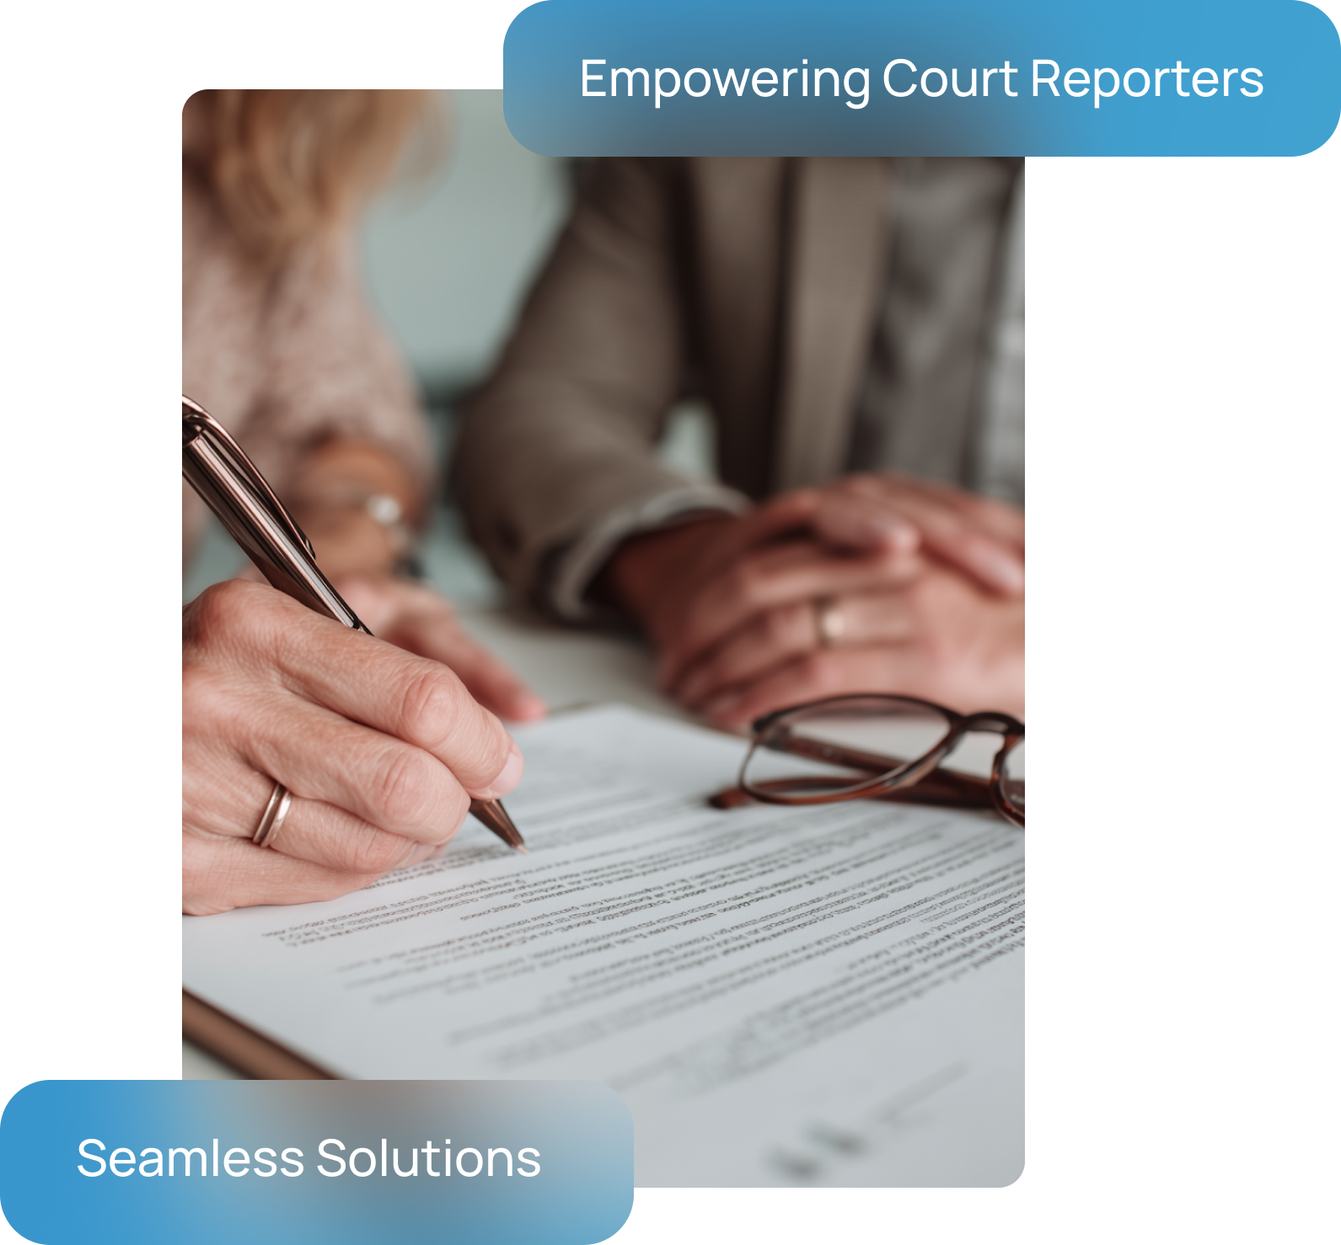
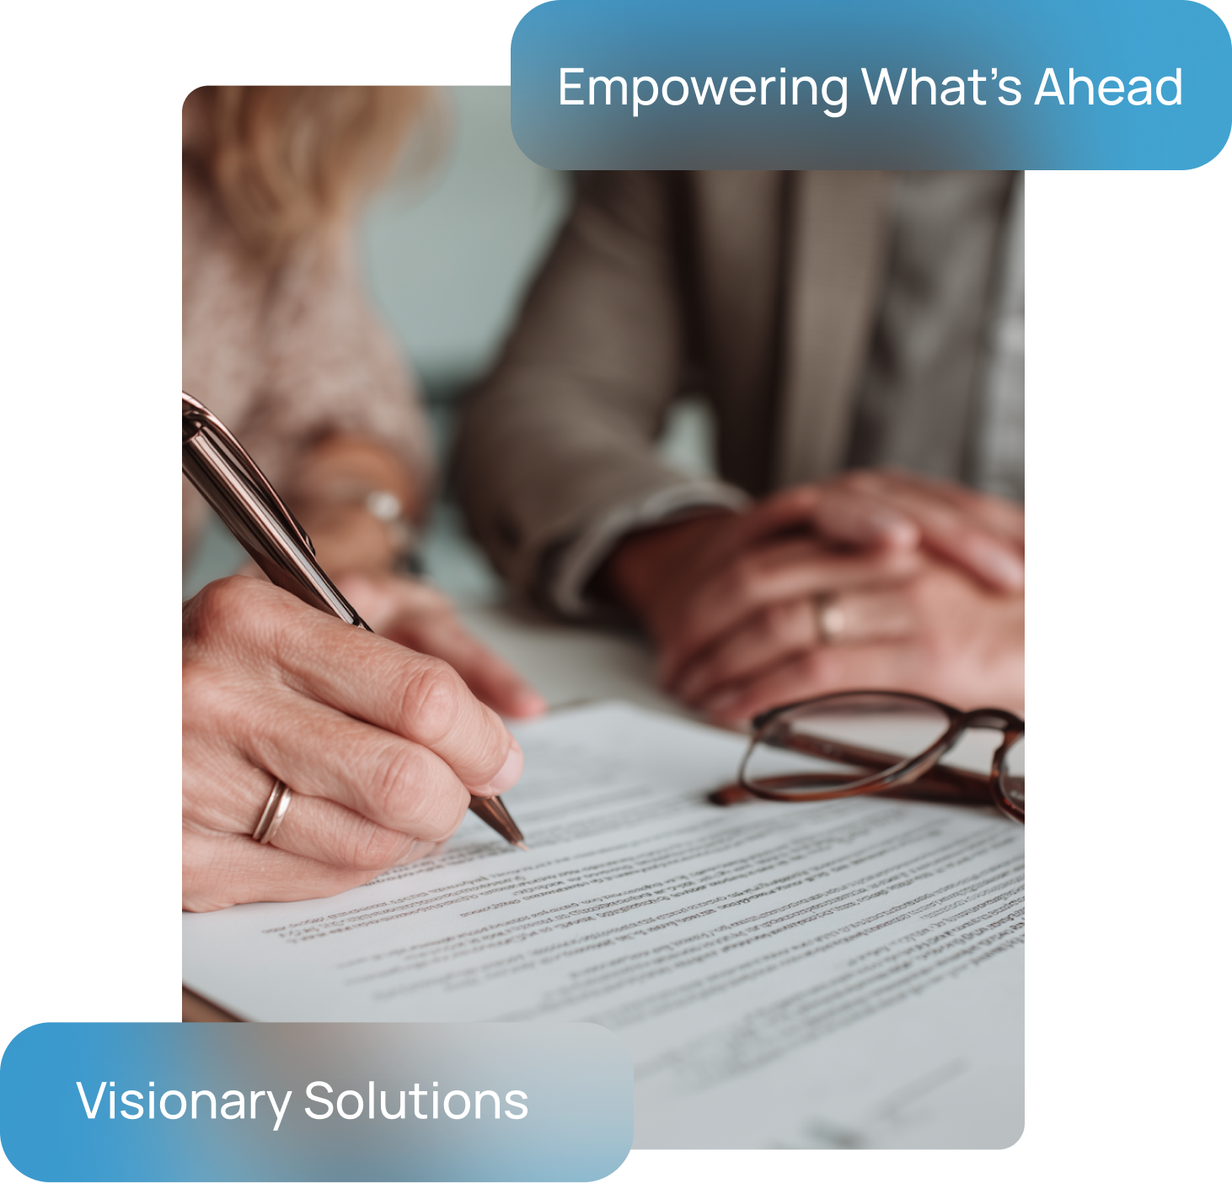
new doc changes

diff --git a/src/pages/ServiceDetails.jsx b/src/pages/ServiceDetails.jsx
@@ -16,7 +16,7 @@ function ServiceDetails() {
         name: "TVG  Management",
         title: "Agency Management Services for Court Reporting Firms",
         pera: [
-          "Running a court reporting firm involves more than just capturing the record.  It demands consistent administrative precision, strong client communication and an eye on the bigger business picture. That’s where we come in. TVG Management acts as your operational backbone, helping you manage the day-to-day so you can focus on what matters most that’s your clients and your growth. Whether you're scaling up, facing staffing challenges or need support during high-demand periods, our experienced team steps in.  We bring reliability, consistency and confidence to your agency.",
+          "Running a court reporting firm involves more than just capturing the record.  It demands consistent administrative precision, strong client communication, and an eye on the bigger business picture. That’s where we come in. TVG Management acts as your operational backbone, helping you manage the day-to-day so you can focus on what matters most: your clients and your growth. Whether you're scaling up, facing staffing challenges, or need support during high-demand periods, our experienced team steps in.  We bring reliability, consistency, and confidence to your agency.",
         ],
         link: "link",
         images: [
@@ -29,8 +29,8 @@ function ServiceDetails() {
       Overview: {
         title: "Proven Experience Delivering the Efficiency You Need",
         pera: [
-          "Managing a court reporting agency means balancing client demands, coordinating with reporters, billing cycles and deadlines all while maintaining your firm’s reputation. That’s where TVG Management comes in. We help you as your supportive operational partner, providing customized administrative support that is specifically designed for court reporting firms.",
-          "If you’re looking to expand your business, facing staffing shortages, or simply wanting to free up time for strategic growth, our experienced team steps in smoothly for your needs. We take care of all the behind the scenes mess so you can stay focused on delivering exceptional service to your clients.",
+          "Managing a court reporting agency means balancing client expectations, reporter coordination, billing cycles, and deadlines, all while keeping your firm’s reputation. That’s where TVG Management comes in. We serve as your dependable operational partner, delivering customized administrative support designed specifically for court reporting firms.",
+          "Whether you're scaling your business, dealing with staff shortages, or simply looking to free up time for strategic growth, our experienced team is here to help. We take care of the behind-the-scenes so you can stay focused on delivering exceptional service to your clients.",
         ],
         img: "/services/management-over.png",
       },
@@ -71,21 +71,21 @@ function ServiceDetails() {
           icon: "/wwo-icon/m1.png",
           title: "End to End Scheduling & Communication Management",
           description:
-            "We handle scheduling, resource calendar coordination, email monitoring and phone answering, ensuring your agency runs smoothly and stays responsive.  We are more than an answering service. We have the skills needed to answer questions the first time they are asked.",
+            "We handle scheduling, resource calendar coordination, email monitoring, and phone answering, ensuring your agency runs smoothly and stays responsive.  We are more than an answering service. We have the skills needed to answer questions the first time they are asked. ",
           classBorder: "border-b border-white",
         },
         {
           icon: "/wwo-icon/m2.png",
           title: "Meticulous Transcript & Exhibit Processing",
           description:
-            "From accurate transcript formatting to exhibit marking, printing, binding and final delivery, we manage it all with precision and speed.",
+            "From accurate transcript formatting to exhibit marking, printing, binding, and final delivery, we manage it all with precision and speed.",
           classBorder: "border-b border-white",
         },
         {
           icon: "/wwo-icon/m3.png",
           title: "Streamlined Invoicing & Collections",
           description:
-            "Get paid on time with professional invoice generation, client billing follow-ups and efficient collections support.",
+            "Get paid on time with professional invoice generation, client billing follow-ups, and efficient collections support.",
           classBorder: "border-b border-white",
         },
         {

diff --git a/src/sections/about/Story.jsx b/src/sections/about/Story.jsx
@@ -6,19 +6,19 @@ const Story = () => {
     {
       year: "2017",
       title: "Our Legacy",
-      para: "Founded in 2001 with a clear mission to deliver exceptional court reporting and legal support services rooted in professionalism, reliability and personal attention, The Varallo Group builds on a family legacy dating back to 1937. For decades, the Varallo name has been synonymous with excellence in the field.",
+      para: "Founded in 2001 with a clear mission to deliver exceptional court reporting and legal support services rooted in professionalism, reliability and personal attention, The Varallo Group builds on a family legacy dating back to 1937. For nearly 100 years, the Varallo name has been synonymous with excellence in the field.",
       img: "/our-legacy.jpg",
     },
     {
       year: "2018",
       title: "Our Commitment",
-      para: "From the start, The Varallo Group set out to be a different kind of court reporting firm. We’ve assembled a team of experts dedicated to upholding the highest standards of accuracy, responsiveness and service. Whether handling routine depositions, high-profile cases, administration or communications, we bring the same precision, discretion and care to every client. Our founder, Nancy Varallo, a lifelong court reporter and respected industry leader, shaped the company’s client-first culture. Under her guidance, The Varallo Group has grown into a trusted partner for court reporting firms, government agencies and organizations nationwide.",
+      para: "From the start, The Varallo Group set out to be a different kind of court reporting firm. We’ve assembled a team of experts dedicated to upholding the highest standards of accuracy, responsiveness, and service. Whether handling routine depositions, high- profile cases, administration or communications, we bring the same precision, discretion, and care to every client. Our founder, Nancy Varallo, a lifelong court reporter and respected industry leader, shaped the company’s client-first culture. Under her guidance, The Varallo Group has grown into a trusted partner for court reporting firms, government agencies, and organizations nationwide.",
       img: "/our-commitment.jpg",
     },
     {
       year: "2020",
       title: "Our Future",
-      para: "What truly sets us apart is the people behind the name. Our team is loyal, experienced and empowered to deliver results. We continuously invest in technology, talent and training to stay ahead in a rapidly evolving legal landscape because our clients rely on us to get it right, every time. At The Varallo Group, we combine a proud legacy of excellence with forward-thinking innovation to meet tomorrow’s challenges.",
+      para: "What truly sets us apart is the people behind the name. Our team is loyal, experienced, and empowered to deliver results. We continuously invest in technology, talent, and training to stay ahead in a rapidly evolving legal landscape — because our clients rely on us to get it right, every time. At The Varallo Group, we combine a proud legacy of excellence with forward-thinking innovation to meet tomorrow’s challenges.",
       img: "/our-future.jpg",
     },
   ];
@@ -54,7 +54,7 @@ const Story = () => {
           viewport={{ once: true, amount: 0.3 }} // triggers when 30% visible
           variants={fadeInUp}
         >
-          <div className="max-w-[1600px] m-auto px-4 py-[50px]">
+          <div className="max-w-[1600px] m-auto px-4 pt-[50px] md:py-[50px]">
             <div
               className={`flex flex-col md:flex-row gap-5 md:gap-10 items-center ${
                 index % 2 === 1 ? "md:flex-row-reverse" : ""

diff --git a/src/sections/service/ServicesGrid.jsx b/src/sections/service/ServicesGrid.jsx
@@ -39,13 +39,13 @@ const services = [
     link: "/services/tvg-verify",
     img: "./verify.jpg",
   },
-  {
-    title: "TVG Creative",
-    content:
-      "Whether you’re launching a new venture or refreshing your digital presence, how you show up matters. In today’s fast-moving world, first impressions aren’t just visual, they're strategic. That’s where TVG Creative steps in. We provide full-spectrum digital marketing, branding and design services customized for the legal and B2B industries. From marketing materials to start-up identity kits, we help you cut through the noise, attract the right audience and communicate your value with clarity and style.",
-    link: "/services/tvg-creative",
-    img: "./creative.jpg",
-  },
+  // {
+  //   title: "TVG Creative",
+  //   content:
+  //     "Whether you’re launching a new venture or refreshing your digital presence, how you show up matters. In today’s fast-moving world, first impressions aren’t just visual, they're strategic. That’s where TVG Creative steps in. We provide full-spectrum digital marketing, branding and design services customized for the legal and B2B industries. From marketing materials to start-up identity kits, we help you cut through the noise, attract the right audience and communicate your value with clarity and style.",
+  //   link: "/services/tvg-creative",
+  //   img: "./creative.jpg",
+  // },
   {
     title: "TVG Reporting",
     content:
@@ -53,13 +53,13 @@ const services = [
     link: "/services/tvg-reporting",
     img: "./reporting.jpg",
   },
-  {
-    title: "TVG Command",
-    content:
-      "As the legal industry evolves, so should your technology. From court reporting to case production, efficiency and accuracy are everything. That’s why more reporting firms are turning to AI-powered platforms that don’t just keep up, they lead. TVG Command helps you modernize your transcription workflow with cutting-edge platform solutions. As a U.S. sales partner for Claudio AI and other legal-first platforms, we connect you with tools designed to scale your reporting business, reduce manual work  without sacrificing accuracy.",
-    link: "/services/tvg-command",
-    img: "./command.jpg",
-  },
+  // {
+  //   title: "TVG Command",
+  //   content:
+  //     "As the legal industry evolves, so should your technology. From court reporting to case production, efficiency and accuracy are everything. That’s why more reporting firms are turning to AI-powered platforms that don’t just keep up, they lead. TVG Command helps you modernize your transcription workflow with cutting-edge platform solutions. As a U.S. sales partner for Claudio AI and other legal-first platforms, we connect you with tools designed to scale your reporting business, reduce manual work  without sacrificing accuracy.",
+  //   link: "/services/tvg-command",
+  //   img: "./command.jpg",
+  // },
 ];
 
 // Motion Variants

diff --git a/src/sections/about/OurFounder.jsx b/src/sections/about/OurFounder.jsx
@@ -84,22 +84,21 @@ function OurFounder() {
 
             {/* Description */}
             <p className="text-xl leading-relaxed font-manrope">
-              Nancy Varallo launched her court reporting career in 1979 and
-              founded The Varallo Group in 2001, combining decades of expertise
-              with a bold vision for better, smarter legal support. With a
-              family name rooted in court reporting since 1937, Nancy carries
-              that legacy forward through her unwavering commitment to quality,
-              service and innovation.
+              Nancy Varallo launched her court reporting career in 1979 and founded The
+Varallo Group in 2001, combining decades of expertise with a bold vision for better,
+
+smarter legal support. With a family name rooted in court reporting since 1937, Nancy
+carries that legacy forward through her unwavering commitment to quality, service, and
+innovation.
             </p>
             <p className="text-xl leading-relaxed font-manrope">
-              From serving as President of the National Court Reporters
-              Association to co-founding the Project to Advance Stenographic
-              Reporting (Project Steno), Nancy has been a powerful advocate for
-              the profession, mentoring students, creating industry programs and
-              even overseeing high-profile cases at Guantanamo Bay. Known
-              affectionately as the “Fearless Leader” by her team, she brings
-              heart, leadership and family-first values to every part of The
-              Varallo Group.
+             
+From serving as President of the National Court Reporters Association to co-founding
+the Project to Advance Stenographic Reporting (Project Steno), Nancy has been a
+powerful advocate for the profession, mentoring students, creating industry programs,
+and even overseeing high-profile cases at Guantanamo Bay. Known affectionately as
+the “Fearless Leader” by her team, she brings heart, leadership, and family-first values
+to every part of The Varallo Group.
             </p>
           </motion.div>
         </div>

diff --git a/src/sections/home/SmartSlider.jsx b/src/sections/home/SmartSlider.jsx
@@ -22,7 +22,7 @@ const smartData = [
   },
   {
     title: "TVG Stream",
-    desc: "Cutting edge legal video, trial presentation and event AV solutions.",
+    desc: "Cutting-Edge trial presentation, and event A/V solutions.",
     image: "smart-3.jpg",
     link: "/services/tvg-stream"
   },
@@ -32,24 +32,24 @@ const smartData = [
     image: "smart-4.jpg",
     link: "/services/tvg-books"
   },
-  {
-    title: "TVG Creative",
-    desc: "Marketing materials, branding and identity kits for legal and B2B sectors.",
-    image: "smart-5.jpg",
-    link: "/services/tvg-creative"
-  },
+  // {
+  //   title: "TVG Creative",
+  //   desc: "Marketing materials, branding and identity kits for legal and B2B sectors.",
+  //   image: "smart-5.jpg",
+  //   link: "/services/tvg-creative"
+  // },
   {
     title: "TVG Connect",
     desc: "Focused management services built for professional associations and organizations.",
     image: "smart-6.jpg",
     link: "/services/tvg-connect"
   },
-  {
-    title: "TVG Command",
-    desc: "Empowering you with sales support and practical training on leading legal tech platforms.",
-    image: "smart-7.jpg",
-    link: "/services/tvg-command"
-  },
+  // {
+  //   title: "TVG Command",
+  //   desc: "Empowering you with sales support and practical training on leading legal tech platforms.",
+  //   image: "smart-7.jpg",
+  //   link: "/services/tvg-command"
+  // },
   {
     title: "TVG Verify",
     desc: "Let us ensure your hiring is secure with reliable background screening and compliance checks, powered by SmartHire.",
@@ -93,7 +93,7 @@ export default function SmartSlider() {
     slidesToScroll: 1,
     centerMode: false,
     autoplay: true,
-    autoplaySpeed: 3000, // 3 seconds
+    autoplaySpeed: 5000, // 3 seconds
     nextArrow: <NextArrow />,
     prevArrow: <PrevArrow />,
     responsive: [

diff --git a/src/sections/home/AboutSection.jsx b/src/sections/home/AboutSection.jsx
@@ -30,7 +30,9 @@ const AboutSection = () => {
 
                 </h3>
                 <p className=" mt-2 font-manrope">
-                 With more than 50 years of court reporting expertise, The Varallo Group combines a rich legacy, unwavering precision and forward-thinking innovation to empower and support your firm every step of the way.
+                With more than 50 years of court reporting expertise, The Varallo Group
+combines a rich legacy, unwavering commitment, and forward-thinking innovation to
+empower and support your firm every step of the way.
 
                 </p>
               </div>
@@ -84,12 +86,12 @@ const AboutSection = () => {
                     { 
                       icon: '/ab-1.png', 
                       title: "Technology-Driven", 
-                      description: "We leverage advanced tools to streamline scheduling, delivery and communication so you can scale with confidence. " 
+                      description: "We leverage advanced tools to streamline scheduling, delivery, and communication so you can scale with confidence." 
                     },
                     { 
                       icon: '/ab-2.png', 
                       title: "Confidential & Reliable", 
-                      description: "We recognize the trust you’ve placed in us and we’re dedicated to protecting the confidentiality of your private company information. " 
+                      description: "We recognize the trust you’ve placed in us, and we’re dedicated to protecting the confidentiality of your private company information." 
                     },
                     { 
                       icon: '/ab-3.png', 

diff --git a/src/sections/home/WhyChoose.jsx b/src/sections/home/WhyChoose.jsx
@@ -25,7 +25,7 @@ const stats = [
   {
     title: "2.5M+",
     description:
-      "Million depositions handled",
+      "Depositions Handled",
   },
 ];
 
@@ -63,7 +63,8 @@ const HeroSection = () => {
             transition={{ duration: 0.8, delay: 0.2 }}
             viewport={{ once: true }}
           >
-          For court reporting firms that value reliability, accuracy and confidentiality, our team delivers more than just services; we deliver peace of mind.
+          For court reporting firms that value reliability, accuracy, and confidentiality, our
+team delivers more than just services; we deliver peace of mind.
 
           </motion.p>
         </motion.div>
@@ -97,7 +98,8 @@ const HeroSection = () => {
             >
               <div className="rounded-xl p-4 text-white text-sm font-medium bg-btn flex flex-col justify-between">
                 <p className="font-manrope text-xl leading-6 md:leading-8">
-                 Decades of expertise, led by Nancy Varallo, trusted by firms nationwide.
+                Decades of expertise, led by Nancy Varallo. Trusted by firms
+nationwide.
                 </p>
                 <Link to={"/services"} className="text-base mt-5 font-manrope leading-8">
                   Learn More
@@ -115,7 +117,7 @@ const HeroSection = () => {
 
             {/* Vertical Slider */}
             <motion.div
-              className="vertical-slider mt-10"
+              className="vertical-slider mt-10 max-h-[165px] md:max-h-auto overflow-hidden"
               initial={{ opacity: 0, y: 30 }}
               whileInView={{ opacity: 1, y: 0 }}
               transition={{ duration: 0.8, delay: 0.4 }}

diff --git a/src/sections/home/HomeHero.jsx b/src/sections/home/HomeHero.jsx
@@ -38,7 +38,7 @@ association management, and administrative support services.
             animate={{ opacity: 1, y: 0 }}
             transition={{ duration: 0.8, delay: 0.3 }}
           >
-            <Button text="Find out more" arrowClass="d" />
+            <Button text="Learn more" arrowClass="d" />
           </motion.div>
 
           <motion.div
@@ -47,15 +47,15 @@ association management, and administrative support services.
             animate={{ opacity: 1, y: 0 }}
             transition={{ duration: 0.8, delay: 0.4 }}
           >
-            <div className="font-manrope bg-[#FFFFFF0A] backdrop-blur-80 rounded-xl px-6 md:px-8 py-4 text-white text-sm flex flex-col justify-between gap-2">
+            {/* <div className="font-manrope bg-[#FFFFFF0A] backdrop-blur-80 rounded-xl px-6 md:px-8 py-4 text-white text-sm flex flex-col justify-between gap-2">
               <span className="text-xl">
                Specialized Proficiency in Court Reporting, Non-profit and Professional Services
 
               </span>
-              {/* <Link to="/services" className="text-[16px] whitespace-nowrap text-end">
+              <Link to="/services" className="text-[16px] whitespace-nowrap text-end">
                 Learn More
-              </Link> */}
-            </div>
+              </Link>
+            </div> */}
           </motion.div>
         </div>
 

diff --git a/src/sections/about/Mission.jsx b/src/sections/about/Mission.jsx
@@ -7,13 +7,16 @@ const Mission = () => {
     <section className="">
       <div className="container-fluid ">
         <motion.p
-          className="text-center text-4xl font-parkinsans"
+          className="text-center   text-h3 font-parkinsans"
           initial={{ opacity: 0, y: 40 }}
           whileInView={{ opacity: 1, y: 0 }}
           transition={{ duration: 0.8 }}
           viewport={{ once: true }}
         >
-          Our mission is to deliver expert court reporting, legal video, association and administrative services as a true extension of your team. We simplify operations, strengthen results and free you to focus on what matters most. More than support, we partner closely with you to anticipate client needs and elevate your success.
+         Our goal is to serve as a trusted partner, delivering expert services
+as an extension of your team. We make your operations simpler,
+your results stronger, and give you more time to focus on what truly
+matters to you.
         {/*  Our mission is to deliver expert court reporting,
          <img src="m-1.png" alt="" className="mx-2 inline w-6 md:w-4 lg:w-10" />
          

diff --git a/src/sections/service-details/TVGEffect.jsx b/src/sections/service-details/TVGEffect.jsx
@@ -5,14 +5,13 @@ export default function TVGEffect({ data }) {
   const { title, pera, impactStats } = data;
 
   return (
-    <section>
+    <section className="tvg-effect">
       <div className="container-fluid">
         <div className="flex justify-center items-center  bg-white">
           <motion.div
-            className="rounded-full bg-white shadow-xl flex flex-col justify-center items-center text-center p-5 sm:p-10 md:p-20 relative overflow-hidden md:w-[700px] md:h-[700px]"
+            className="rounded-[50px] md:rounded-full bg-white shadow-xl flex flex-col justify-center items-center text-center p-5 sm:p-10 md:p-20 relative overflow-hidden md:w-[700px] md:h-[700px]"
             style={{
               boxShadow: "0 0 120px 20px rgba(0, 204, 255, 0.2)",
-              borderRadius: "9999px",
             }}
             initial={{ opacity: 0, scale: 0.8 }}
             whileInView={{ opacity: 1, scale: 1 }}

diff --git a/src/sections/about/Team.jsx b/src/sections/about/Team.jsx
@@ -5,13 +5,13 @@ import { FaLinkedin } from "react-icons/fa";
 const teamMembers = [
   {
     name: "Nancy Varallo",
-    role: "Founder",
+    role: "Founder and CEO",
     image: "team-1.jpg",
     linkedin: "https://www.linkedin.com/in/nancy-varallo-8346a248/",
   },
   {
     name: "George Catuogno",
-    role: "CEO",
+    role: "COO",
     image: "team-2.jpg",
     linkedin: "https://www.linkedin.com/in/george-catuogno-2627a67/",
   },
@@ -60,7 +60,7 @@ const Team = () => {
       <div className="text-center mb-12">
         <h2 className="text-h2 font-parkinsans">The Pillars of The Varallo Group</h2>
         <p className="font-manrope text-xl mt-2">
-          The thinkers, doers and leaders shaping your future.
+         The thinkers, doers, and leaders shaping your future.
         </p>
       </div>
 

diff --git a/src/components/Button.jsx b/src/components/Button.jsx
@@ -98,7 +98,7 @@ function Button({ text, link, arrowClass, color, size }) {
               </div>
 
               {/* Hours */}
-              <div className="flex items-start mb-4">
+              {/* <div className="flex items-start mb-4">
                 <Clock className="mr-3 mt-1" />
                 <div>
                   <p className="font-manrope text-p mb-2">Working Hours:</p>
@@ -107,7 +107,7 @@ function Button({ text, link, arrowClass, color, size }) {
                   </p>
                   <p className="font-manrope text-lg">Fri: 08:00am - 05:00pm</p>
                 </div>
-              </div>
+              </div> */}
 
               {/* Email */}
               <div className="flex items-start mb-6">
